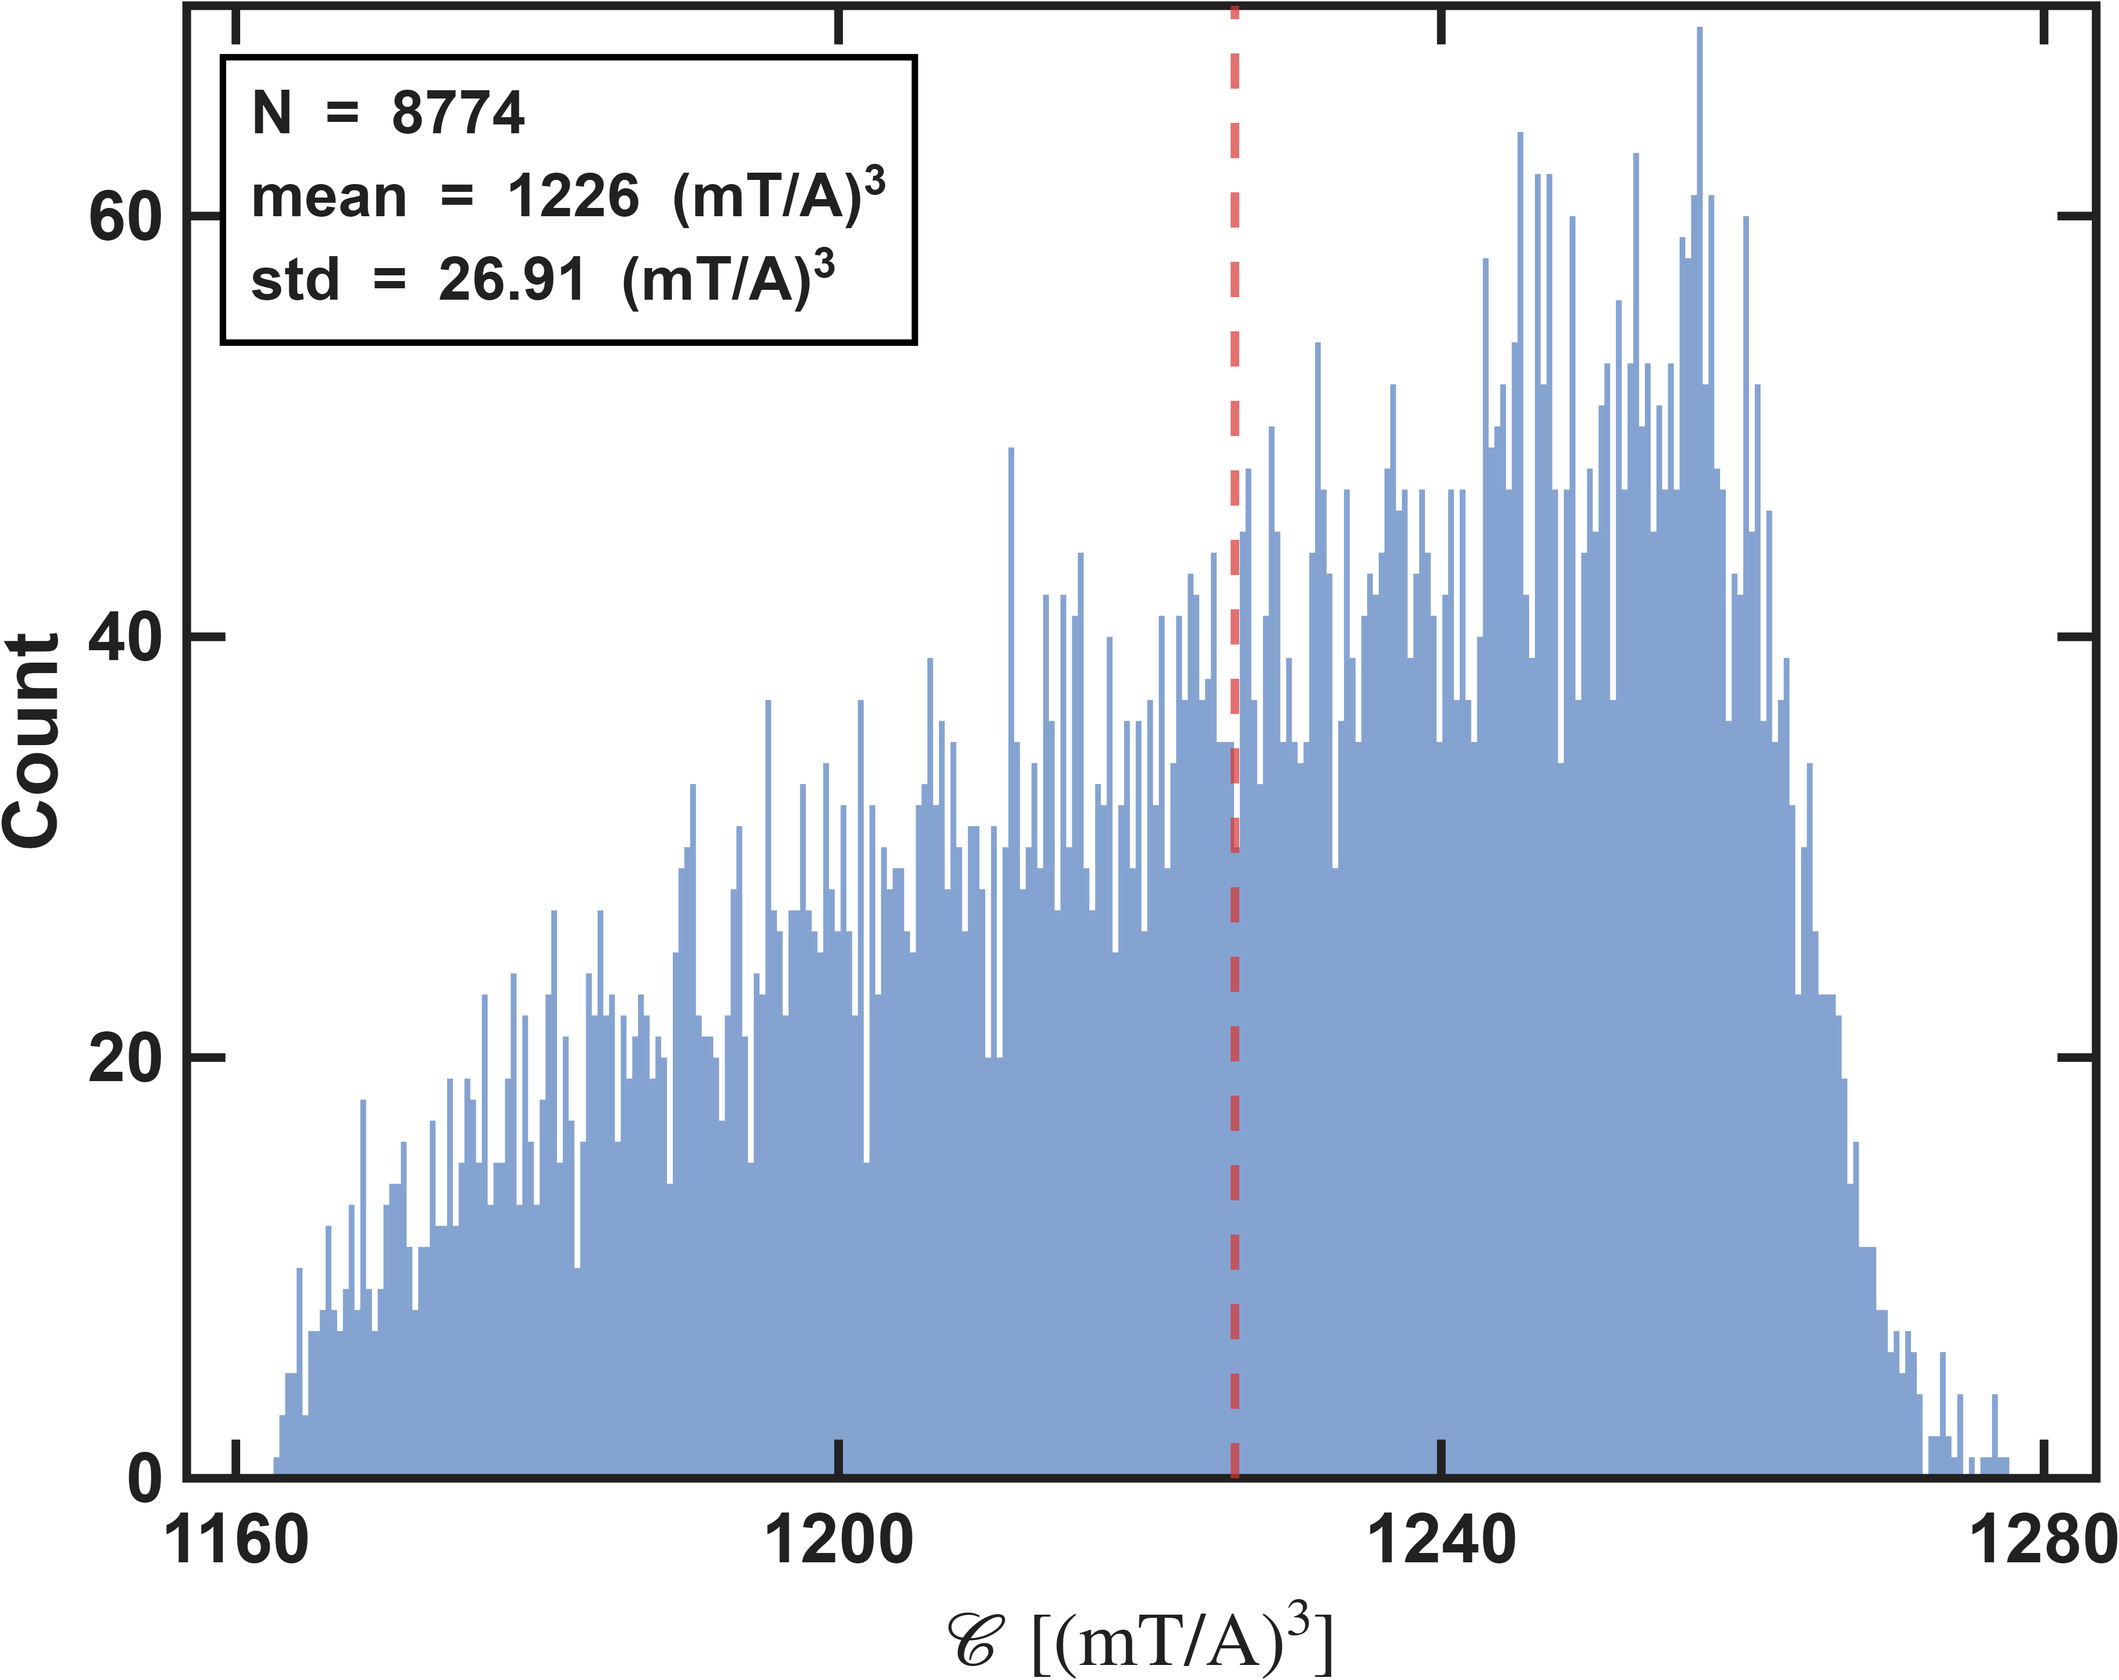
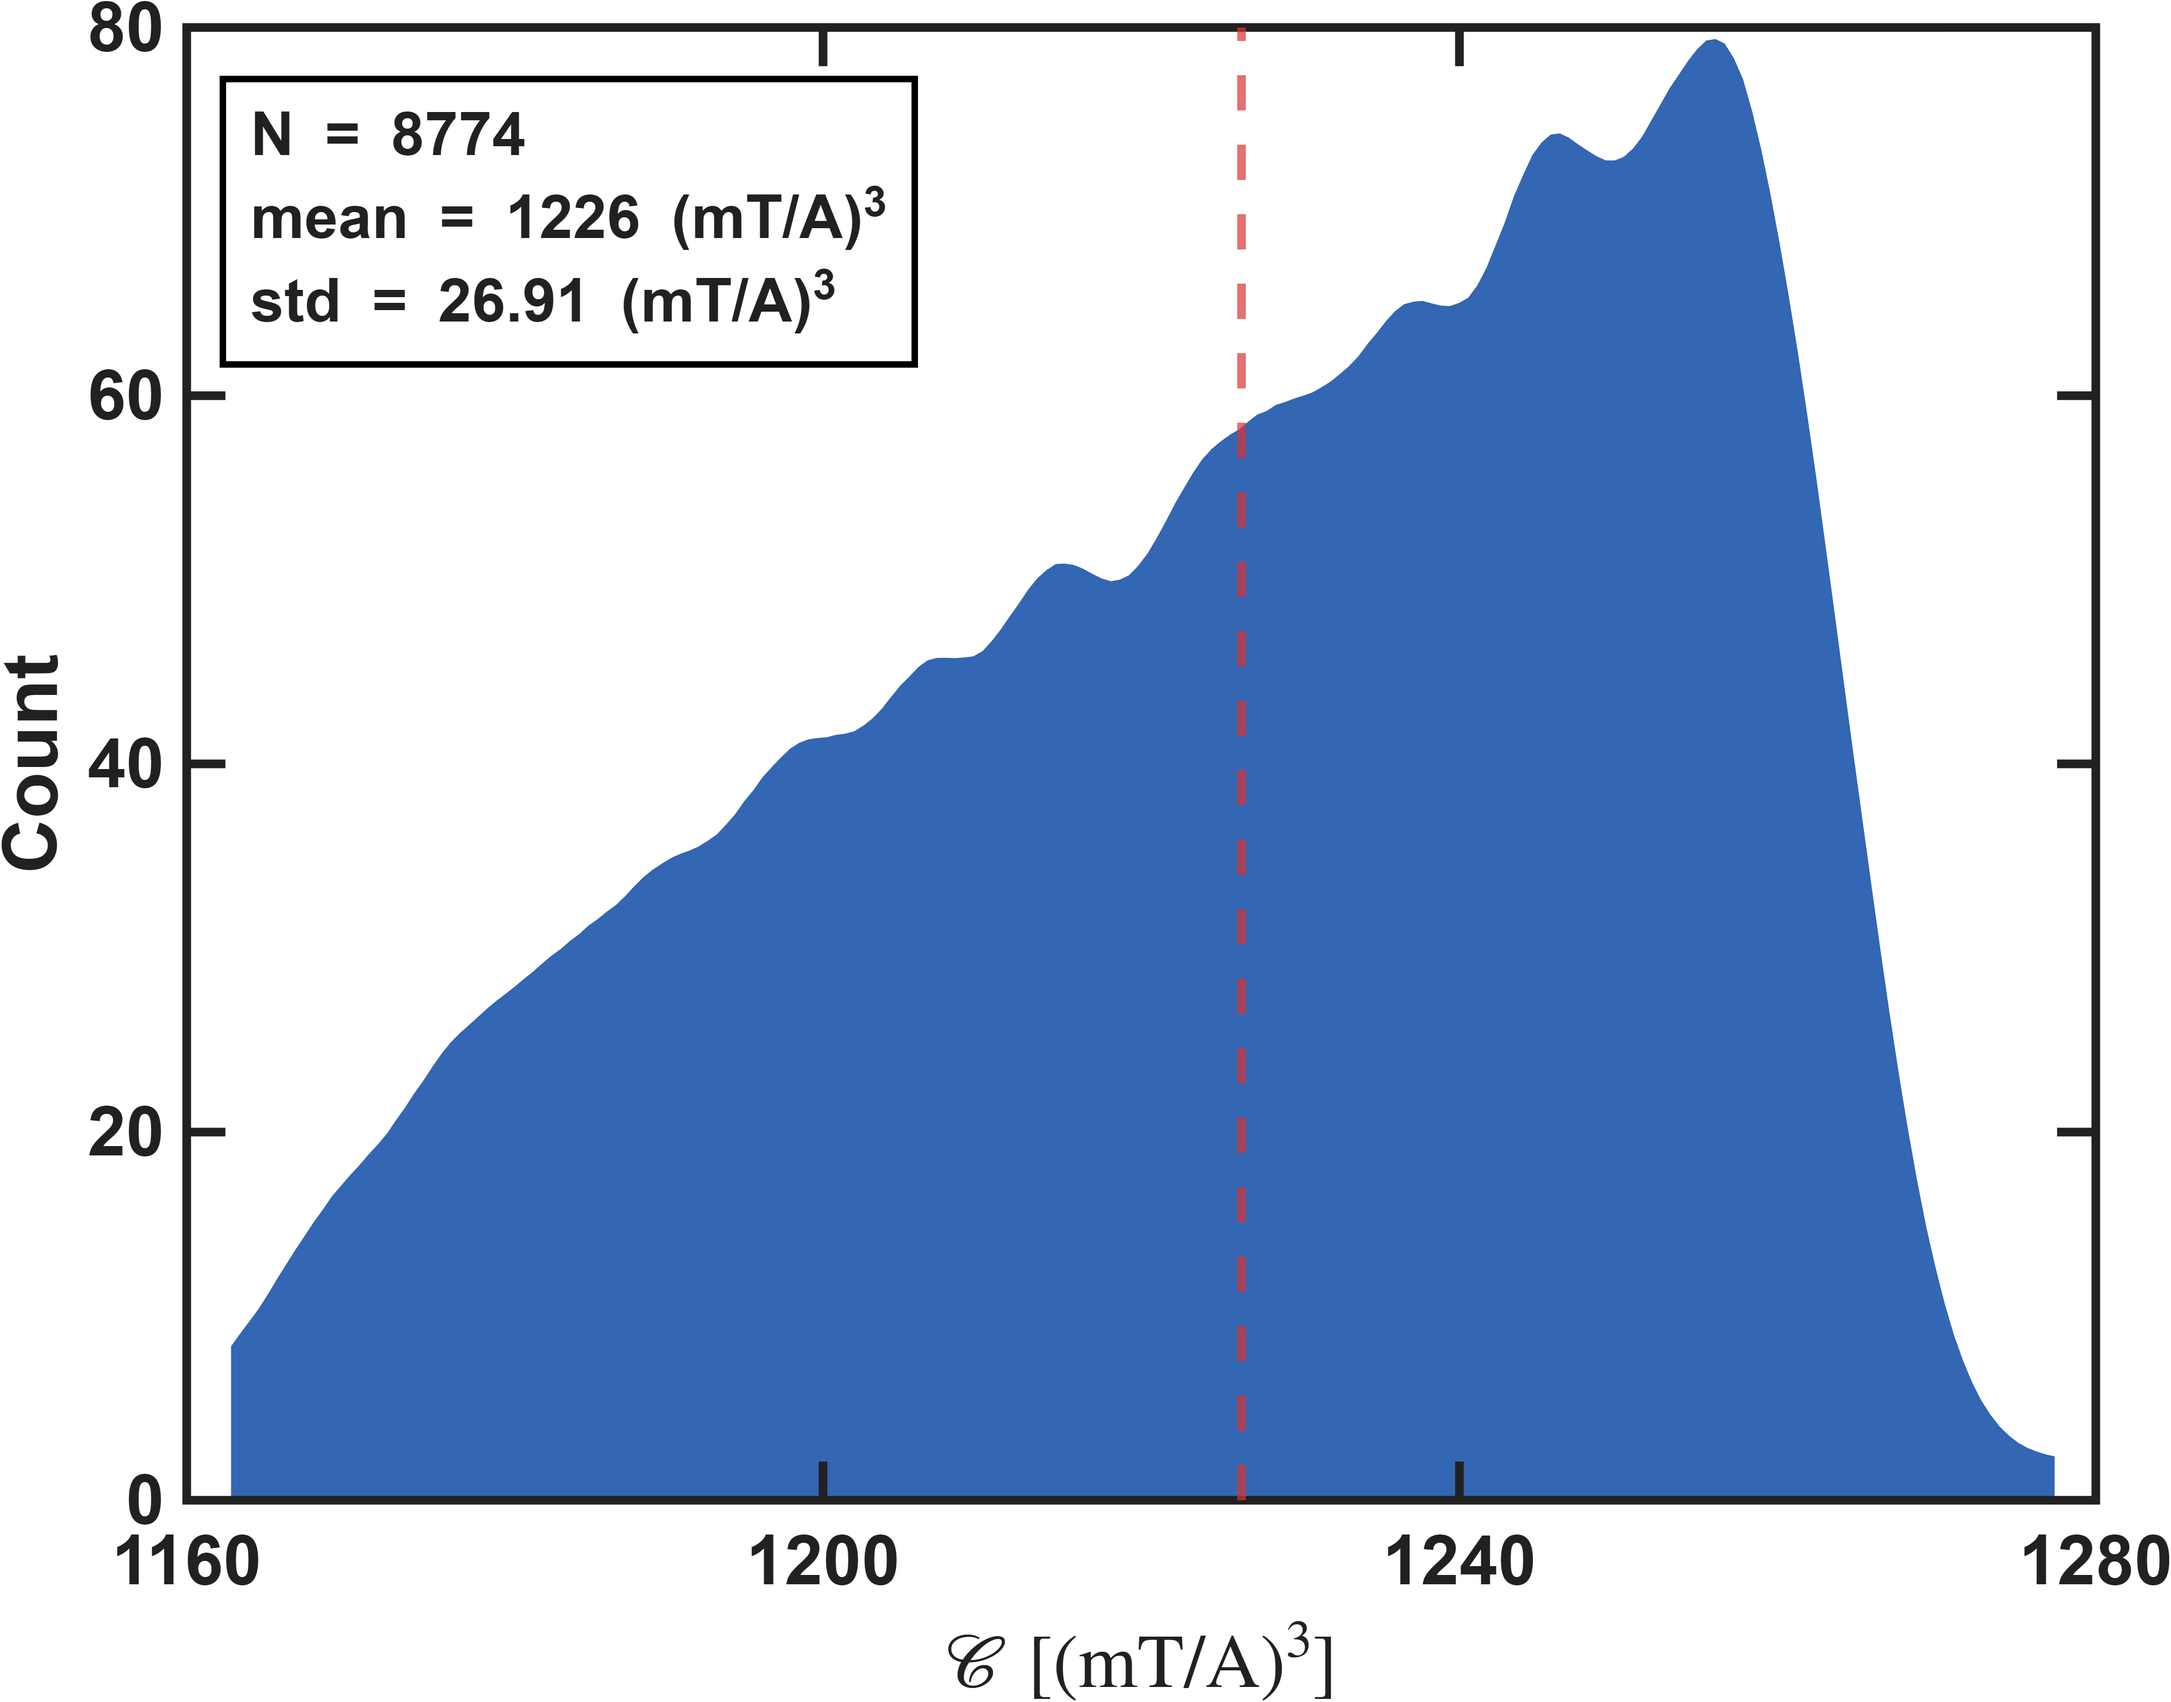
index plots: smoothed density fill (continuous curve, not discrete bars)
A raw count histogram is inherently spiky at this N (fewer points/bin = noisier),
so it always reads as discrete lines. Replace with fine histcounts + gaussian
smoothdata + filled area() -> a continuous solid distribution curve.

diff --git a/magnetic_sim/ANSYS/main/matlab/long2016_hexapole_halfcut/Calibration_using_FEM_modeling/no_fix_dir/code/plot/plot_gain_iso_index.m b/magnetic_sim/ANSYS/main/matlab/long2016_hexapole_halfcut/Calibration_using_FEM_modeling/no_fix_dir/code/plot/plot_gain_iso_index.m
@@ -52,12 +52,16 @@ function plot_gain_iso_index()
 end
 
 function render_hist(y, xlab, sunit, vline, out)
-% 直方圖（風格比照 plot_charge_field_err_hist）：鋼藍+白邊細長條、左上黑框註記、Count 縱軸、vline 紅虛線。
+% 平滑密度填充圖（連續、非離散長條）：細箱 histcounts + gaussian 平滑 → area 實心填充。
+%   左上黑框註記、Count 縱軸、vline 紅虛線（C→mean、kappa→1）。
     n = numel(y);  m = mean(y);  s = std(y);
-    NB = 300;                                                       % bin 數（爆密；配 EdgeColor none → 長條併成實心、看不出格子）
+    NB = 200;                                                       % 細箱 → 平滑成連續密度包絡（避免離散長條）
+    [cnt, edges] = histcounts(y, NB);
+    ctr   = edges(1:end-1) + diff(edges)/2;
+    cnt_s = smoothdata(cnt, 'gaussian', max(9, round(NB/10)));      % gaussian 平滑：去 bin 噪聲、成連續線
     fig = figure('Color','w','Position',[100 100 760 560]);
     ax  = axes(fig);
-    histogram(ax, y, NB, 'FaceColor',[0.20 0.40 0.70], 'EdgeColor','none');
+    area(ax, ctr, cnt_s, 'FaceColor',[0.20 0.40 0.70], 'EdgeColor','none'); hold(ax,'on');   % 實心、連續
     xl = xlim(ax);                                                  % 若 vline 貼/超右界 → 延伸右界讓虛線落在框內
     if vline >= xl(2) - 0.005*(xl(2)-xl(1))
         xlim(ax, [xl(1), vline + 0.03*(xl(2)-xl(1))]);
